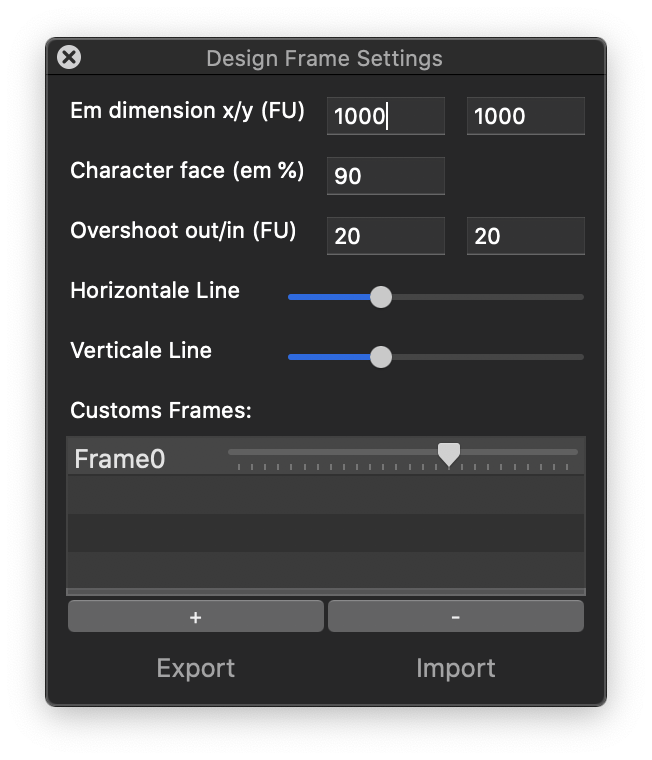
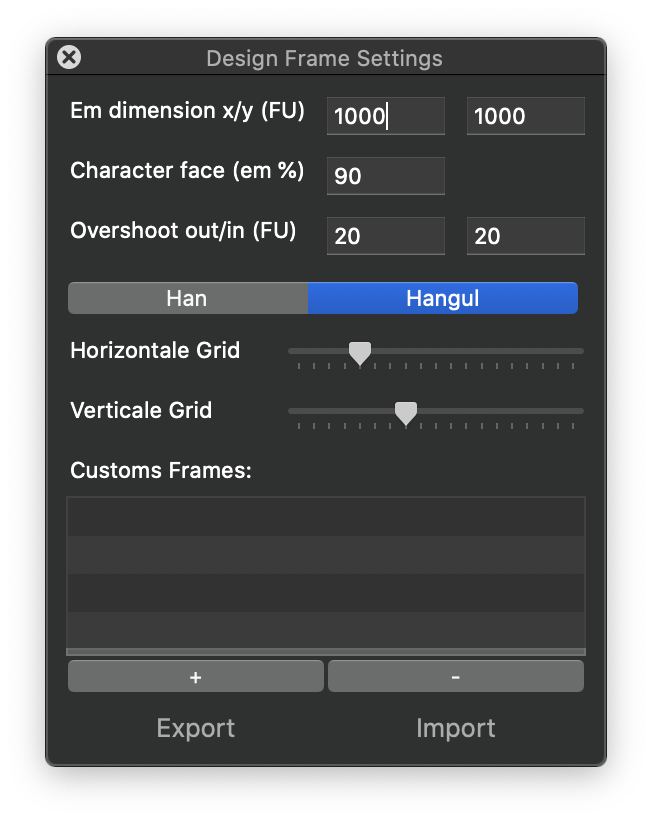
update README

diff --git a/README.md b/README.md
@@ -1,25 +1,26 @@
 # CJK Design Frame
 
-A RoboFont extension to display a design frame useful for Chinese, Japanese or Korean typeface design in the glyph window.
+A RoboFont extension to display a design frame useful for Chinese, Japanese or Korean typeface design in the glyph window. <br>
 
-This frame displays important metrics for undertaking the design of CJK typefaces.
+This frame displays important metrics for undertaking the design of CJK typefaces. <br>
 
 ## Design Frame Toggle Button
 
-A toggle button will appear in the glyph window.
+A toggle button will appear in the glyph window. <br>
 
 ![Design Frame Button](/documentation/CJKDesignFrameGlyphWindow.png)
 
 ## Settings
 
-By toggling the CJK Design Frame's button, if there is no settings yet, the settings window will open.
+By toggling the CJK Design Frame's button, if there is no settings yet, the settings window will open. <br>
 
-Then to reopen it, right click -> Design Frame Settings.
+Then to reopen it, right click -> Design Frame Settings. <br>
 
+There is the possibility to display second lines for han design, or a grid for hangul design. <br>
 
-All the settings will be stored in the font lib. 
+All the settings will be stored in the font lib. <br>
 
-However you can export/import the settings as json file.
+However you can export/import the settings as json file. <br>
 
 ![Settings window](/documentation/CJKDesignFrameSettings.png)
 
